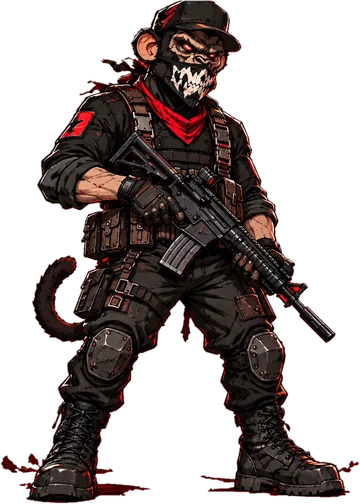
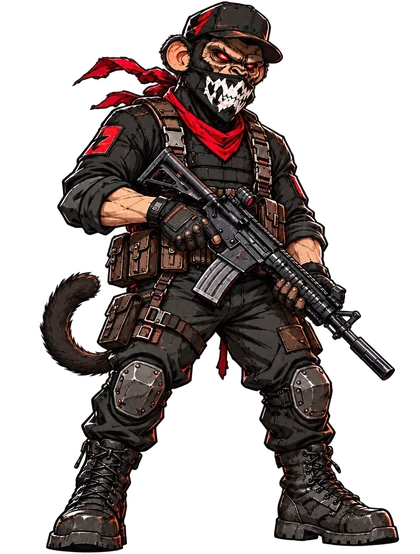
Bosses 1-4 (Skull Bandit, Red Ninja, Ammo Brute, Ghillie Sniper) drawn from the new clean artwork
Claude-Session: https://claude.ai/code/session_01AFcB8tnXHrTWHQ39MwJJPb

Changed region(s): [[0.0, 0.0, 0.9778, 1.0], [0.9778, 0.8929, 1.0, 0.9226]]

diff --git a/game.js b/game.js
@@ -1,7 +1,7 @@
 // Monkeys vs Opps: clear rooms of Opps, pick one of three upgrades, beat a boss every 10 rooms. Stand still to shoot, move to dodge.
 // Drag anywhere with your thumb to move. Your monkey starts at the bottom, opps drop in from the top, and it auto-fires.
 (() => {
-  const VERSION = 'v42';
+  const VERSION = 'v43';
   const cv = document.getElementById('c'); let ctx = cv.getContext('2d'); const mainCtx = ctx;
   let W, H, S, AW, AH, dpr, hudY = 44, UIY = 0, UIB = 14;
   let RW = 0, RH = 0, camX = 0, camY = 0;                   // the room can be bigger than the screen; the camera follows you
@@ -308,7 +308,7 @@
     ctx.restore();
     return true;
   }
-  const BOSS_SPRITES = { bandit: 1 };                                    // bosses drawn from the supplied artwork (cut-outs in art/)
+  const BOSS_SPRITES = { bandit: { face: 1 }, ninja: { face: -1 }, ammo: { face: 1 }, ghillie: { face: 1 } };                                    // bosses drawn from the supplied artwork (cut-outs in art/)
   const bossArtC = {};
   function bossArt(id) { if (!BOSS_SPRITES[id]) return null; if (!bossArtC[id]) { const im = new Image(); im.src = 'art/boss_' + id + '.webp'; bossArtC[id] = im; } return bossArtC[id]; }
   const bossCfg = room => BOSSES[((room / 10 - 1) % BOSSES.length + BOSSES.length) % BOSSES.length];
@@ -1733,7 +1733,7 @@
     const art = e.boss && !e.clone ? bossArt(e.bid) : null;
     if (art && art.complete && art.naturalWidth) {                      // supplied artwork instead of the drawn body
       const h = r * 4.5, w = h * art.naturalWidth / art.naturalHeight, sway = Math.sin(e.ph) * 0.03;
-      ctx.save(); ctx.translate(0, r * 2.0); ctx.rotate(sway); if (P.x < e.x) ctx.scale(-1, 1); ctx.drawImage(art, -w / 2, -h, w, h); ctx.restore();
+      ctx.save(); ctx.translate(0, r * 2.0); ctx.rotate(sway); if ((P.x < e.x ? -1 : 1) !== BOSS_SPRITES[e.bid].face) ctx.scale(-1, 1); ctx.drawImage(art, -w / 2, -h, w, h); ctx.restore();
     } else {
       if (!flying) oppBody(e, r, col);
       beast(e, r, col);

diff --git a/sw.js b/sw.js
@@ -1,6 +1,6 @@
 // Network first so updates arrive; the cache is the offline fallback. Same-origin GET only.
-const CACHE = 'monkeys-vs-opps-v42';
-const FILES = ['./', 'index.html', 'style.css', 'reg.js', 'game.js', 'manifest.webmanifest', 'icons/icon-180.png', 'icons/icon-192.png', 'icons/icon-512.png', 'art/boss_bandit.webp'].concat(['volt','gunner','blaze','frost','toxic','thunder','shadow','tank','plasma','chaos'].flatMap(n => ['art/hero_' + n + '.webp', 'art/hero_' + n + '_card.webp']));
+const CACHE = 'monkeys-vs-opps-v43';
+const FILES = ['./', 'index.html', 'style.css', 'reg.js', 'game.js', 'manifest.webmanifest', 'icons/icon-180.png', 'icons/icon-192.png', 'icons/icon-512.png', 'art/boss_bandit.webp', 'art/boss_ninja.webp', 'art/boss_ammo.webp', 'art/boss_ghillie.webp'].concat(['volt','gunner','blaze','frost','toxic','thunder','shadow','tank','plasma','chaos'].flatMap(n => ['art/hero_' + n + '.webp', 'art/hero_' + n + '_card.webp']));
 self.addEventListener('install', e => { e.waitUntil(caches.open(CACHE).then(c => c.addAll(FILES))); self.skipWaiting(); });
 self.addEventListener('activate', e => {
   e.waitUntil(caches.keys().then(ks => Promise.all(ks.filter(k => k !== CACHE).map(k => caches.delete(k)))));
